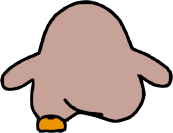
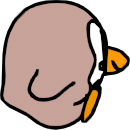
Added keyboard inputs

diff --git a/index.html b/index.html
@@ -1,18 +1,20 @@
 <html>
-
-<body>
-
-
+	<head>
+		<style>
+		<script src="https://ajax.googleapis.com/ajax/libs/jquery/3.6.3/jquery.min.js"></script>
+		</style>
+	</head>
+<body style = "background: url('imgs/bgimage.jpg') no-repeat center center fixed;
+        -webkit-background-size: cover;
+        -moz-background-size: cover;
+        -o-background-size: cover;
+        background-size: cover;">
 
 
 <canvas id="canvas" style=""></canvas>
 
 
-
-
 <script>
-
-
 
 
   var init_size = true;
@@ -20,8 +22,6 @@
   // resize the canvas to fill browser window dynamically
 
   window.addEventListener('resize', resizeCanvas, false);
-
-                    
 
                     function resizeCanvas() {
 
@@ -40,120 +40,88 @@
                             for(var i=0; i < agents.length; ++i){
 
                                     agents[i].canvas_resize();
-
                             }
-
                     }
-
 resizeCanvas();
 
 var loop_imgs = [];
 
-
-
-
 var img_0 = new Image();
-
 img_0.src = "imgs/0.png"
 
-
-
-
 var img_1 = new Image();
-
 img_1.src = "imgs/1.png"
 
-
-
-
 var img_2 = new Image();
-
 img_2.src = "imgs/2.png"
 
-
-
-
 var img_3 = new Image();
-
 img_3.src = "imgs/3.png"
-
-
-
 
 loop_imgs = [ img_0, img_1, img_2, img_3 ]
 
-
-
-
+// initial parameter setups
 var loop_index = 0;
-
-
-
-
 var context = canvas.getContext('2d');
-
 var x = 10;
-
-var x_dist = 50;
-
+var x_dist = 0;
 var y = 10;
-
-var y_dist = 50;
-
+var y_dist = 0;
 var last_animation_time =  new Date().getTime();
-
 var time_delta = 1;
-
 var bk_img = null;
-
 var img;
 
-function call_me_on_draw(){
+document.addEventListener('keydown', function(event)
+		{
+	if (event.code === 'ArrowUp')
+		{
+		y_dist = -2;
+		x_dist = 0;
+		}
+	if (event.code === 'ArrowDown')
+                {
+                y_dist = 2;
+		x_dist = 0;
+                }
+	if(event.code == 'ArrowLeft')
+		{
+		y_dist = 0;
+		x_dist = -2;
+		}
+	if(event.code == 'ArrowRight')
+		{
+		y_dist = 0;
+		x_dist = 2;
+		}
+			});
 
-    window.requestAnimationFrame(call_me_on_draw);
-
-    if( (time_delta + last_animation_time) >  new Date().getTime() ){
-
+function call_me_on_draw()
+{
+		
+window.requestAnimationFrame(call_me_on_draw);
+	if( (time_delta + last_animation_time) >  new Date().getTime() ){
         return;
-
     }
-
-    last_animation_time =  new Date().getTime();
-
-    if( bk_img != null){
-
+ last_animation_time =  new Date().getTime();
+ if( bk_img != null){
         context.putImageData( bk_img, x, y);
-
     }
+x = x + x_dist;
+y = y + y_dist;
+bk_img = context.getImageData(x, y, 134, 142);
+loop_index++;
+    if(loop_index > 3)
+	{
+        	loop_index = 0;
+	}
 
-    if( x > window.innerWidth){
+img = loop_imgs[loop_index];
+context.drawImage( img, x, y, 134, 142);
 
-        x = 10;
-
-        y = y + y_dist;
-
-    }
-
-    x = x + x_dist;
-
-    bk_img = context.getImageData(x, y, 134, 142);
-
-    loop_index++;
-
-    if(loop_index > 3){
-
-        loop_index = 0;
-
-    }
-
-    img = loop_imgs[loop_index];
-
-    context.drawImage( img, x, y, 134, 142);
-
-}    
+}
 
 call_me_on_draw();
-
 </script>
 
 </body>
